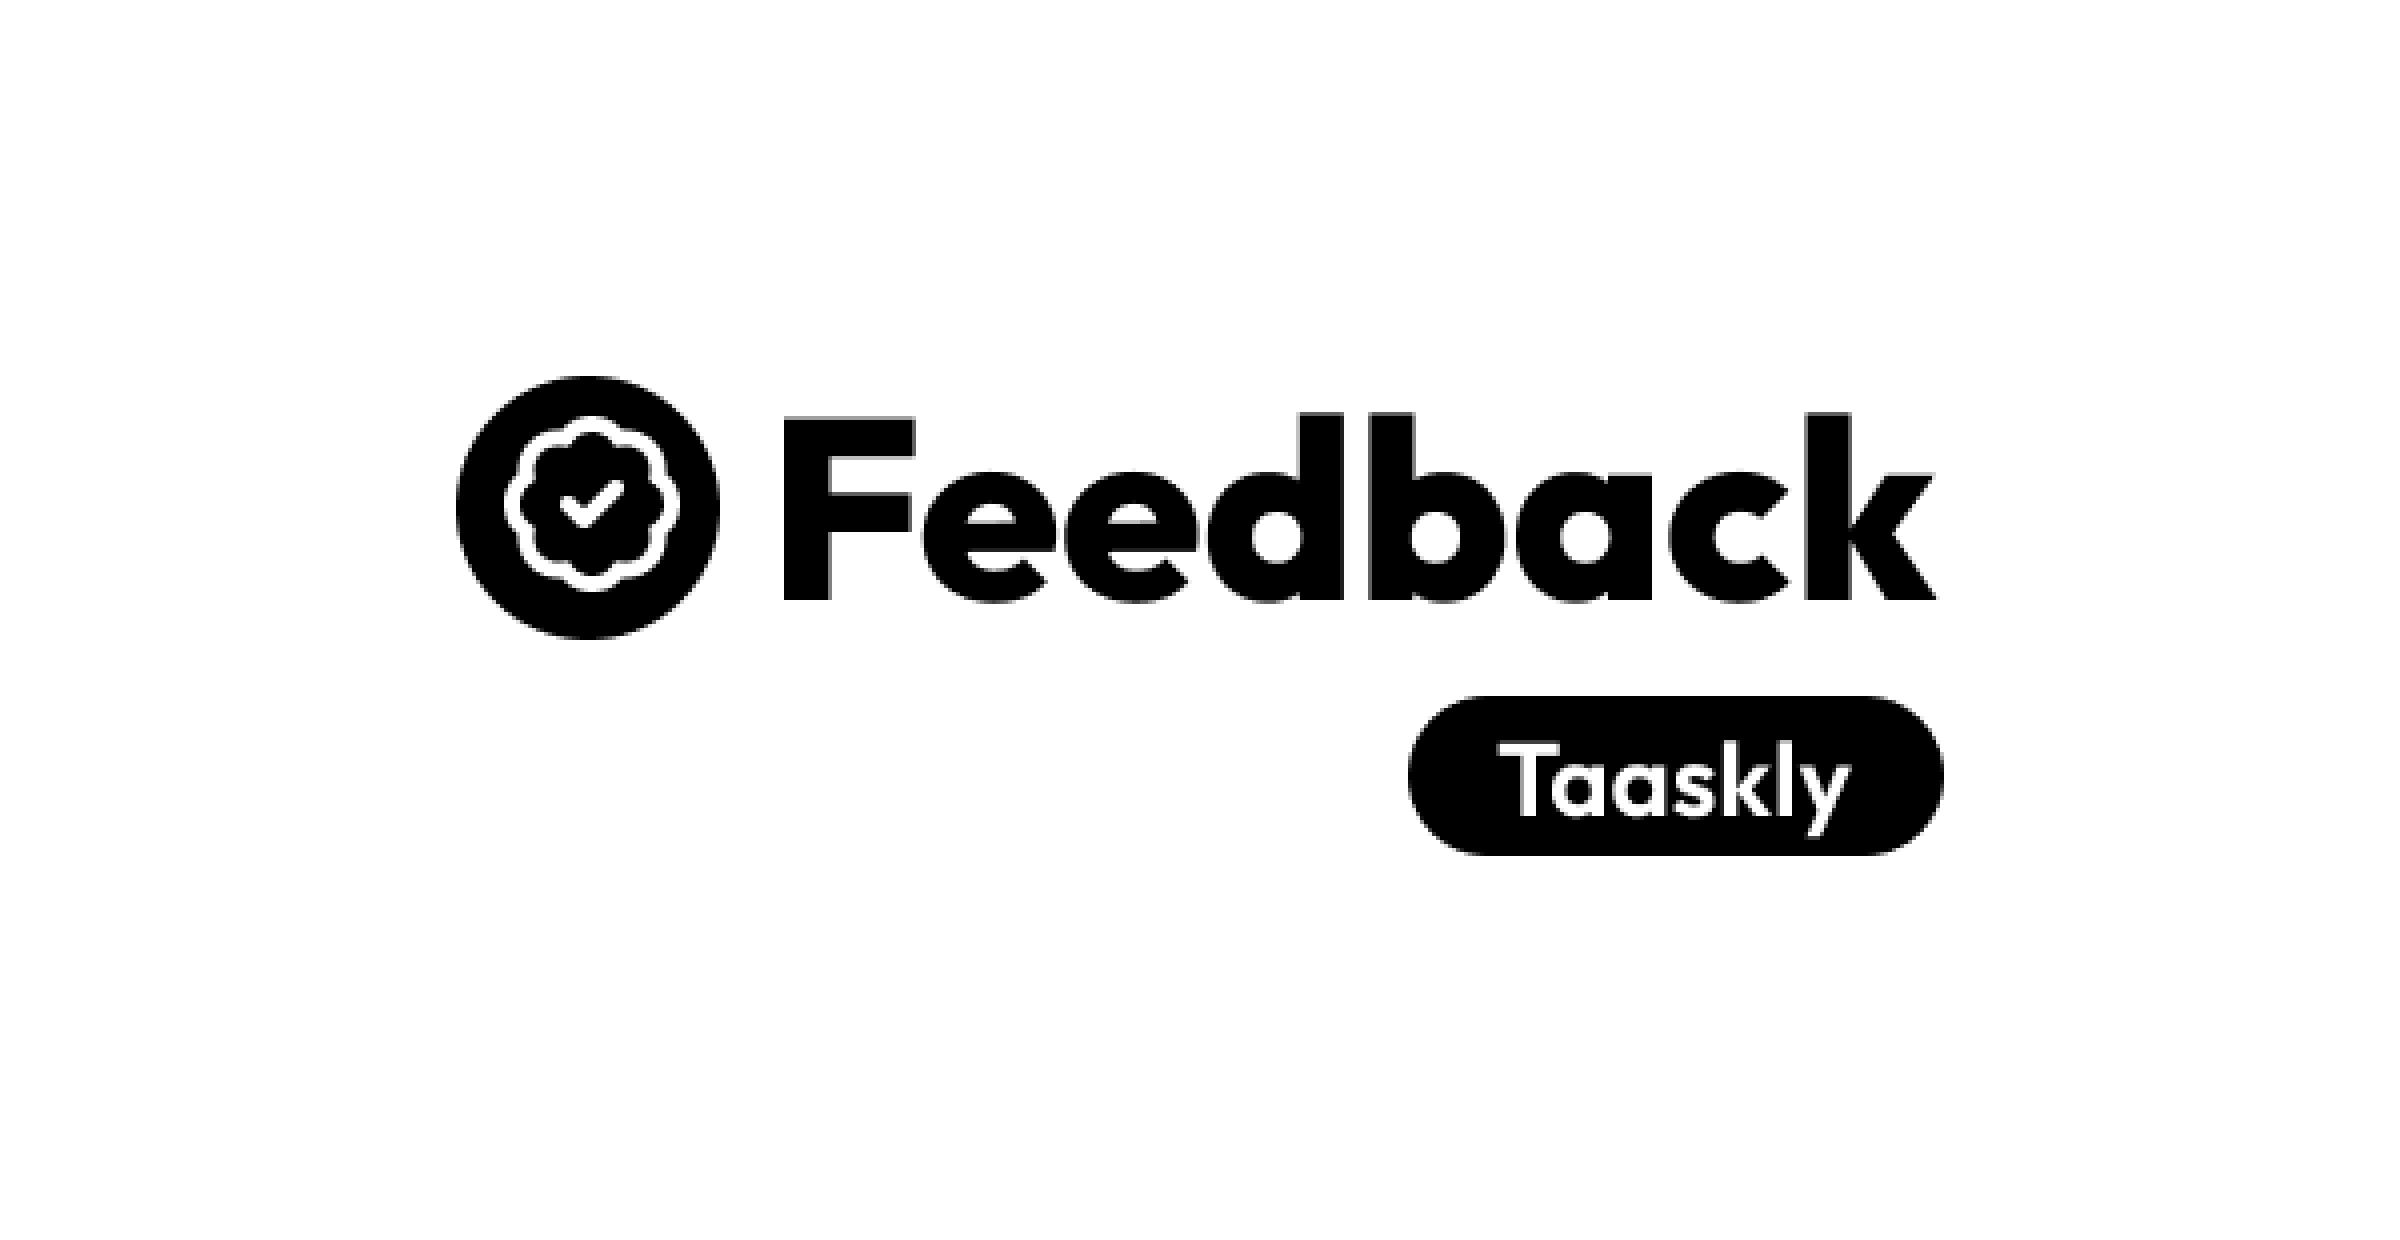
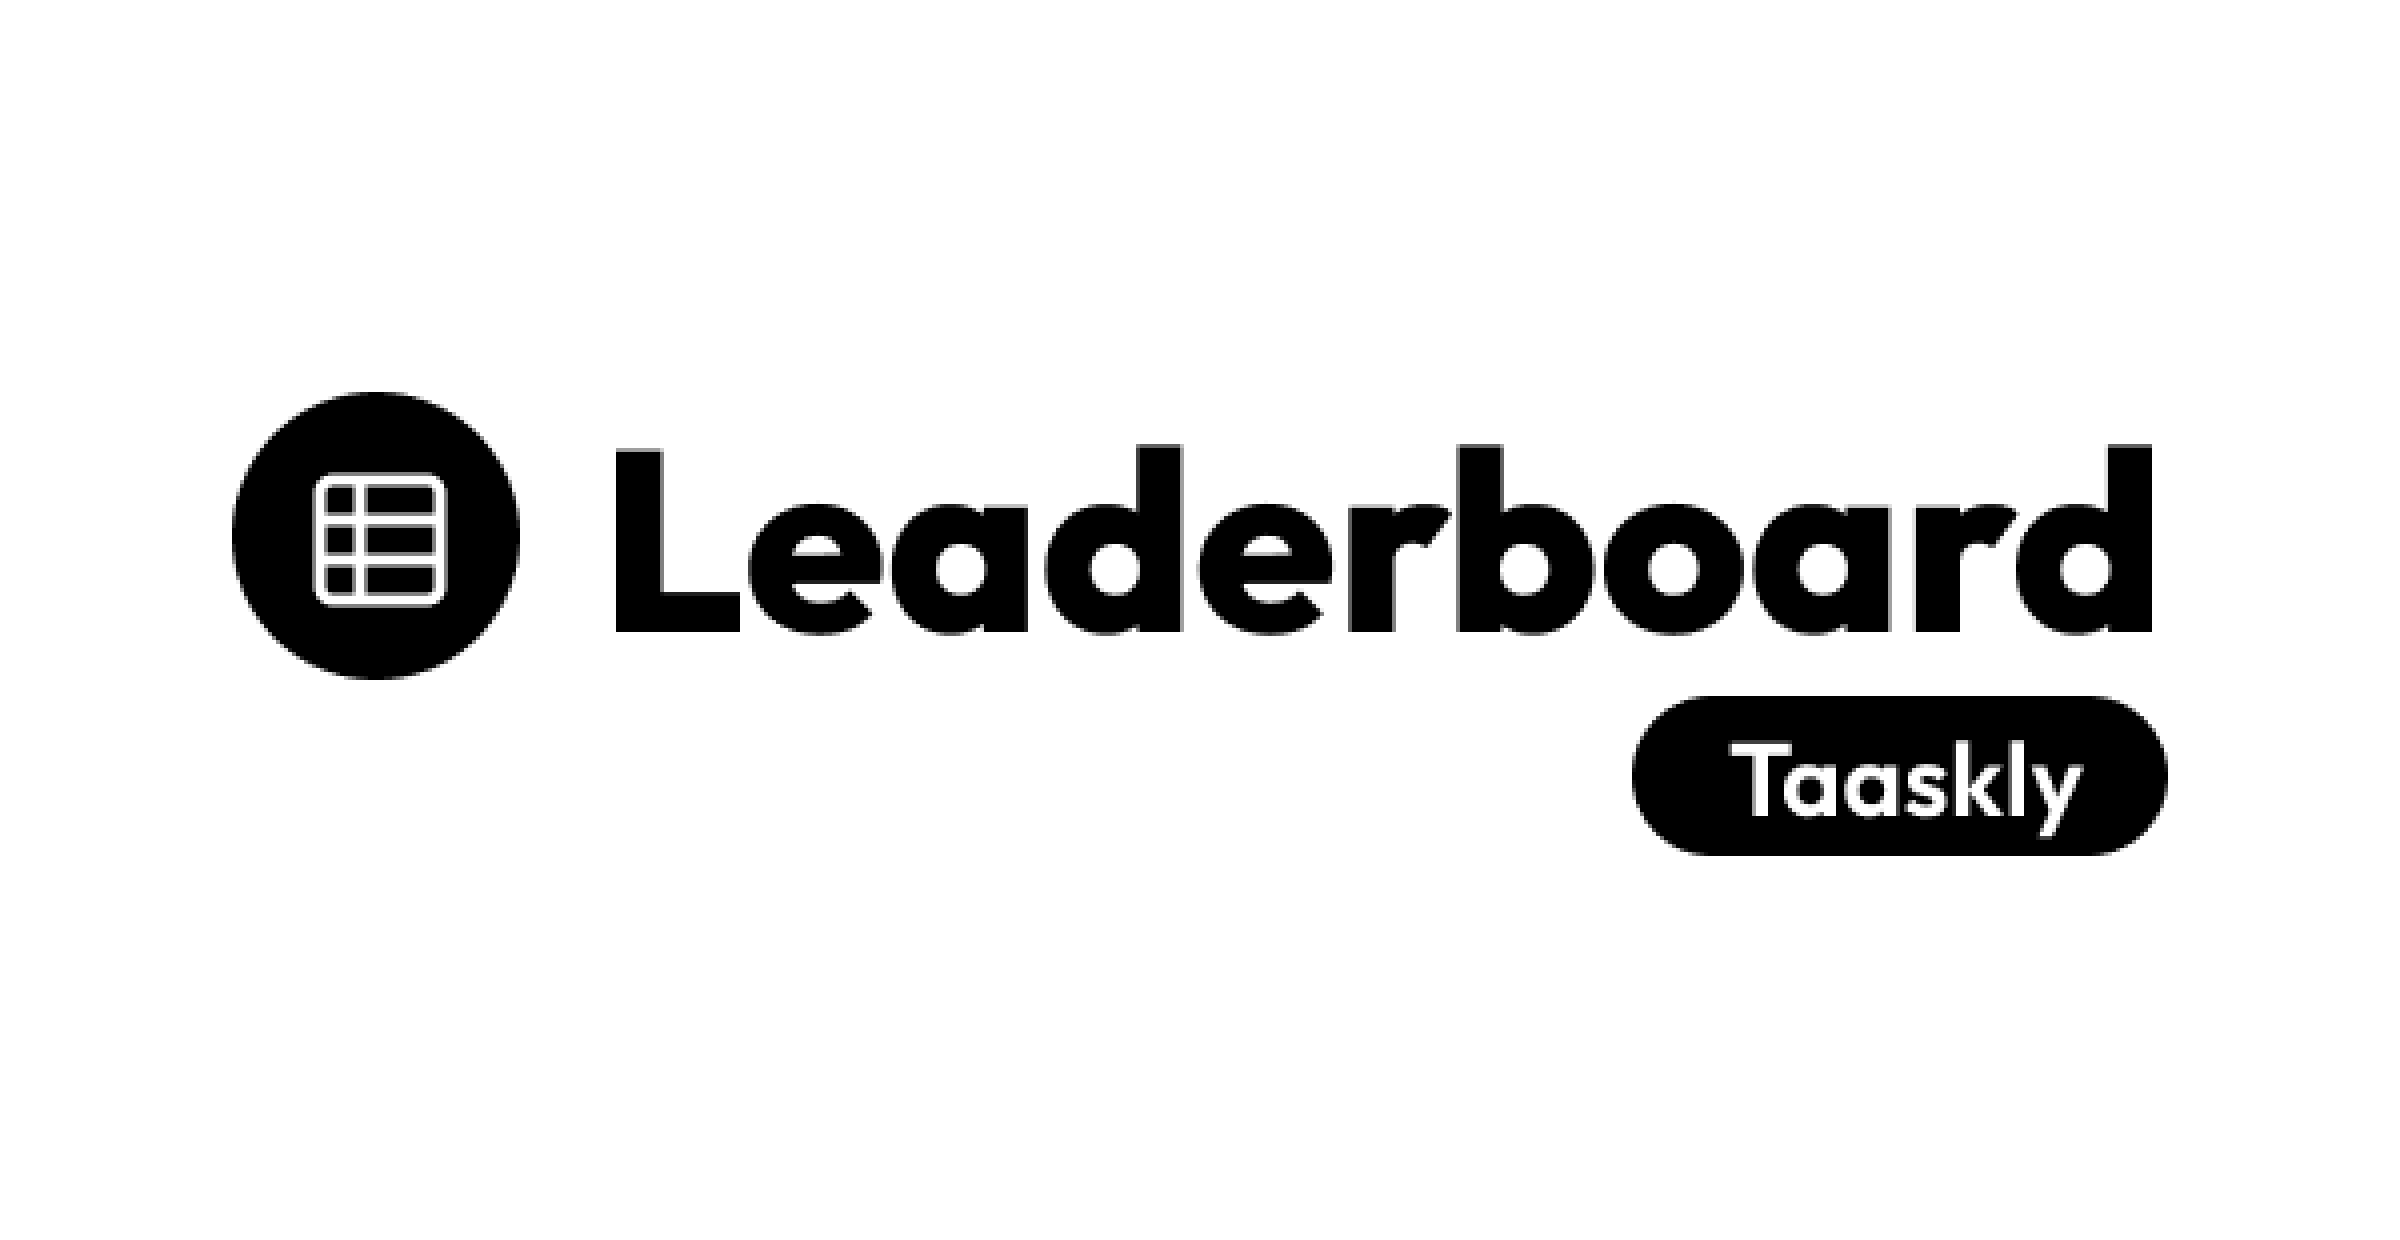
init

Changed region(s): [[0.0938, 0.3065, 0.9062, 0.5516], [0.5625, 0.5516, 0.9062, 0.7048]]

diff --git a/src/components/pages/Hero.vue b/src/components/pages/Hero.vue
@@ -2,22 +2,23 @@
 	<main class=" h-full container grid md:grid-cols-2 gap-12 items-center  md:py-32 py-10">
 		<section class="text-start px-4">
 			<h1 class="md:text-7xl text-5xl font-extrabold mb-4 pathway leading-[1.2]">
-				Feedback Simplified
+				Leaderboard Simplified
 			</h1>
 			<p class="md:text-2xl text-lg font-medium md:font-normal text-dark mb-8 ">
-				Seamlessly collect, analyze, and act on customer feedback to enhance your products and services. Boost satisfaction, loyalty, and performance with our intuitive feedback solution.
+				Create, share, and manage dynamic leaderboards with ease. Boost engagement, track progress, and celebrate achievements in your community or organization.
 			</p>
 			<div class="flex gap-4 items-center">
 				<nuxt-link to="/dashboard" class="bg-black text-white md:py-4 py-3 md:px-10 px-8 rounded-md md:text-xl">
-					Collect Feedback
+					Create Leaderboard
 				</nuxt-link>
-				<a class="md:text-xl font-semibold underline " href="https://www.youtube.com/watch?v=f3XQRsgvRTU&ab_channel=Kromate" target="_blank" rel="noopener noreferrer">Watch a Demo</a>
+				<!-- <a class="md:text-xl font-semibold underline " href="#" target="_blank" rel="noopener noreferrer">Watch a Demo</a> -->
 			</div>
 		</section>
 
 		<section class="flex center items-start h-full">
 			<div class="flex flex-col max-w-lg w-full gap-4 max-h-[410px] overflow-auto hide-scrollbar px-4 md:p-5 ">
-				<DashboardUpvoteCard v-for="sample in demo_feedback" :key="sample.id" :data="sample" />
+				<h2 class="text-2xl font-semibold bg-light p-2 px-4  rounded-md border border-dark">Sweetest Kids Leaderboard</h2>
+				<DashboardLeaderboardCard v-for="(player, index) in leaderboardData" :key="player.id" :name="player.name" :points="player.points" :index="index" />
 			</div>
 		</section>
 	</main>
@@ -25,26 +26,19 @@
 
 <script lang='ts' setup>
 
-const demo_feedback = [
-	{ id: 'a1b2c3d4e', title: 'Google Calendar integration', desc: 'I would be willing to pay extra for a calendar integration', upvotes: 123 },
-	{ id: 'f5g6h7i8j', title: 'Mobile App Enhancements', desc: 'The mobile app needs to be more responsive and user-friendly.', upvotes: 85 },
-	{ id: 'k9l0m1n2o', title: 'Additional Language Support', desc: 'Please add support for more languages, especially Spanish and French.', upvotes: 78 },
-	{ id: 'p3q4r5s6t', title: 'Dark Mode', desc: 'A dark mode option would be really helpful for working at night.', upvotes: 65 },
-	{ id: 'u7v8w9x0y', title: 'Customizable Notifications', desc: 'Allow users to customize the type and frequency of notifications they receive.', upvotes: 53 },
-	{ id: 'z1a2b3c4d', title: 'Integration with Slack', desc: 'Integration with Slack for team collaboration would be fantastic.', upvotes: 49 },
-	{ id: 'e5f6g7h8i', title: 'Improved Analytics', desc: 'Provide more detailed analytics and reporting features.', upvotes: 42 },
-	{ id: 'j9k0l1m2n', title: 'User Tutorials', desc: 'Add more tutorials and guides to help new users get started.', upvotes: 38 },
-	{ id: 'o3p4q5r6s', title: 'Enhanced Security', desc: 'Focus on improving security features to protect user data.', upvotes: 34 },
-	{ id: 't7u8v9w0x', title: 'Performance Optimization', desc: 'Optimize performance to ensure smooth and fast user experience.', upvotes: 29 },
-	{ id: 'y1z2a3b4c', title: 'Customizable Dashboards', desc: 'Allow users to customize their dashboards with widgets they find useful.', upvotes: 27 },
-	{ id: 'd5e6f7g8h', title: 'Integration with Microsoft Teams', desc: 'Integration with Microsoft Teams would be very beneficial.', upvotes: 25 },
-	{ id: 'i9j0k1l2m', title: 'Export Data', desc: 'Provide options to export data in various formats for offline analysis.', upvotes: 22 },
-	{ id: 'n3o4p5q6r', title: '24/7 Customer Support', desc: 'Offer 24/7 customer support for users in different time zones.', upvotes: 18 },
-	{ id: 's7t8u9v0w', title: 'API Access', desc: 'Provide API access for developers to create custom integrations.', upvotes: 15 },
-	{ id: 'x1y2z3a4b', title: 'Social Media Sharing', desc: 'Allow users to share feedback results directly on social media.', upvotes: 13 },
-	{ id: 'c5d6e7f8g', title: 'In-App Chat Support', desc: 'Add an in-app chat support feature for real-time assistance.', upvotes: 10 },
-	{ id: 'h9i0j1k2l', title: 'Multiple User Roles', desc: 'Support for multiple user roles and permissions.', upvotes: 9 },
-	{ id: 'm3n4o5p6q', title: 'Advanced Search', desc: 'Improve search functionality with advanced filtering options.', upvotes: 7 },
-	{ id: 'r7s8t9u0v', title: 'Automated Reports', desc: 'Set up automated reports to be sent to email at regular intervals.', upvotes: 5 }
+const leaderboardData = [
+
+	// Affrican names
+	{ id: 1, name: 'Anthony', points: 100 },
+	{ id: 2, name: 'Afomachukwu', points: 90 },
+	{ id: 3, name: 'Zainab', points: 80 },
+	{ id: 4, name: 'Ijeoma', points: 70 },
+	{ id: 5, name: 'Eniola', points: 60 },
+	{ id: 6, name: 'Sebastian', points: 50 },
+	{ id: 7, name: 'Grace', points: 40 },
+	{ id: 8, name: 'Hank', points: 30 },
+	{ id: 9, name: 'Ivy', points: 20 },
+	{ id: 10, name: 'Jack', points: 10 }
+	// ... more players
 ]
 </script>

diff --git a/app_config.ts b/app_config.ts
@@ -6,7 +6,7 @@
 export default {
     keepalive: true,
     head: {
-        title: 'Feedback - Simplified Feedback, Amplified Business',
+        title: 'Leaderboard - Simplified Leaderboard Management',
         htmlAttrs: { lang: 'en' },
         viewport: 'width=device-width,initial-scale=1,viewport-fit=cover',
         bodyAttrs: { class: 'overflow-x-hidden' },
@@ -19,47 +19,49 @@ export default {
             },
             {
                 name: 'title',
-                content: 'Feedback - Simplified Feedback, Amplified Business'
+                content: 'Leaderboard - Simplified Leaderboard Management'
             },
             {
                 name: 'description',
-                content: 'Seamlessly collect, analyze, and act on customer feedback to enhance your products and services. Boost satisfaction, loyalty, and performance with our intuitive feedback solution.'
+                content: 'Create, share, and manage dynamic leaderboards with ease. Boost engagement, track progress, and celebrate achievements in your community or organization.'
             },
             {
                 name: 'twitter:title',
-                content: 'Feedback - Simplified Feedback, Amplified Business'
+                content: 'Leaderboard - Simplified Leaderboard Management'
             },
-            { name: 'twitter:image', content: 'https://feedback.taaskly.site/og2.png' },
+            { name: 'twitter:image', content: 'https://leaderboard.taaskly.site/og2.png' },
             {
                 name: 'twitter:description',
-                content: 'Seamlessly collect, analyze, and act on customer feedback to enhance your products and services. Boost satisfaction, loyalty, and performance with our intuitive feedback solution.'
+                content: 'Create, share, and manage dynamic leaderboards with ease. Boost engagement, track progress, and celebrate achievements in your community or organization.'
             },
             { name: 'twitter:card', content: 'summary_large_image' },
             { name: 'twitter:site', content: '@kromate_24' },
             { name: 'twitter:creator', content: '@kromate_24' },
             {
                 property: 'og:title',
-                content: 'Feedback | Simplified Feedback, Amplified Business'
+                content: 'Leaderboard | Simplified Leaderboard Management'
             },
             { name: 'google-site-verification', content: 'tWttF6w3RHPlNPm5u7KSRgh4lgkRUZ2Bwl6QzECjY18' },
             { property: 'og:type', content: 'website' },
-            { property: 'og:url', content: 'https://feedback.taaskly.site/' },
-            { property: 'og:image', content: 'https://feedback.taaskly.site/og2.png' },
-            { property: 'og:image:secure_url', content: 'https://feedback.taaskly.site/og2.png' },
+            { property: 'og:url', content: 'https://leaderboard.taaskly.site/' },
+            { property: 'og:image', content: 'https://leaderboard.taaskly.site/og2.png' },
+            { property: 'og:image:secure_url', content: 'https://leaderboard.taaskly.site/og2.png' },
             { property: 'og:image:type', content: 'image/png' },
-            { property: 'og:site_name', content: 'Feedback' },
+            { property: 'og:site_name', content: 'Leaderboard' },
             {
                 property: 'og:description',
-                content: 'Seamlessly collect, analyze, and act on customer feedback to enhance your products and services. Boost satisfaction, loyalty, and performance with our intuitive feedback solution.'
+                content: 'Create, share, and manage dynamic leaderboards with ease. Boost engagement, track progress, and celebrate achievements in your community or organization.'
             },
 
             { name: 'format-detection', content: 'telephone=no' }
         ],
 
         link: [
-            { rel: 'icon', type: 'image/x-icon', href: '/logo.svg' },
+        
+                    { rel: 'icon', type: 'image/x-icon', href: '/og.png' },
             { href: 'https://fonts.googleapis.com', rel: 'preconnect' },
-            { href: 'https://fonts.gstatic.com', rel: 'preconnect', crossorigin: true }
+            { href: 'https://fonts.gstatic.com', rel: 'preconnect', crossorigin: true },
+            { href: 'https://fonts.googleapis.com/css2?family=Outfit:wght@100..900&family=Poppins:ital,wght@0,100;0,200;0,300;0,400;0,500;0,600;0,700;0,800;0,900;1,100;1,200;1,300;1,400;1,500;1,600;1,700;1,800;1,900&display=swap', rel: 'stylesheet', crossorigin: true }
 
         ]
     }

diff --git a/src/components/dashboard/LeaderboardCard.vue b/src/components/dashboard/LeaderboardCard.vue
@@ -1,0 +1,34 @@
+<template>
+	<div class="flex items-center justify-between p-3 rounded-md cursor-pointer hover:btn_shadow transition-colors border border-dark bg-light" :class="positionClass">
+		<div class="flex items-center gap-4">
+			<span class="font-bold text-lg w-8 text-center">{{ position }}</span>
+			<span class="font-semibold">{{ name }}</span>
+		</div>
+		<span class="font-bold">{{ points }}</span>
+	</div>
+</template>
+
+<script setup lang="ts">
+import { computed } from 'vue'
+
+const props = defineProps<{
+	name: string
+	points: number
+	index: number
+}>()
+
+const position = computed(() => props.index + 1)
+
+const positionClass = computed(() => {
+	switch (position.value) {
+		case 1:
+			return '!bg-yellow-200'
+		case 2:
+			return '!bg-gray-200'
+		case 3:
+			return '!bg-orange-200'
+		default:
+			return ''
+	}
+})
+</script>

diff --git a/src/firebase/init.ts b/src/firebase/init.ts
@@ -33,7 +33,7 @@ export const useFirestore = (databaseName: string): Firestore => {
 
 export const auth = getAuth(useFirebase())
 export const defaultDb: Firestore = useFirestore('(default)')
-export const db: Firestore = useFirestore('feedback')
+export const db: Firestore = useFirestore('leaderboard')
 export const storage = getStorage(useFirebase())
 export const functions = getFunctions(useFirebase(), 'us-central1')
 

diff --git a/src/assets/css/global.css b/src/assets/css/global.css
@@ -1,6 +1,5 @@
 
-@import url('https://fonts.googleapis.com/css2?family=Outfit:wght@100..900&display=swap');
-@import url('https://fonts.googleapis.com/css2?family=Pathway+Extreme:ital,opsz,wght@0,8..144,100..900;1,8..144,100..900&display=swap');
+
 
 * {
   font-family: 'Outfit', sans-serif;
